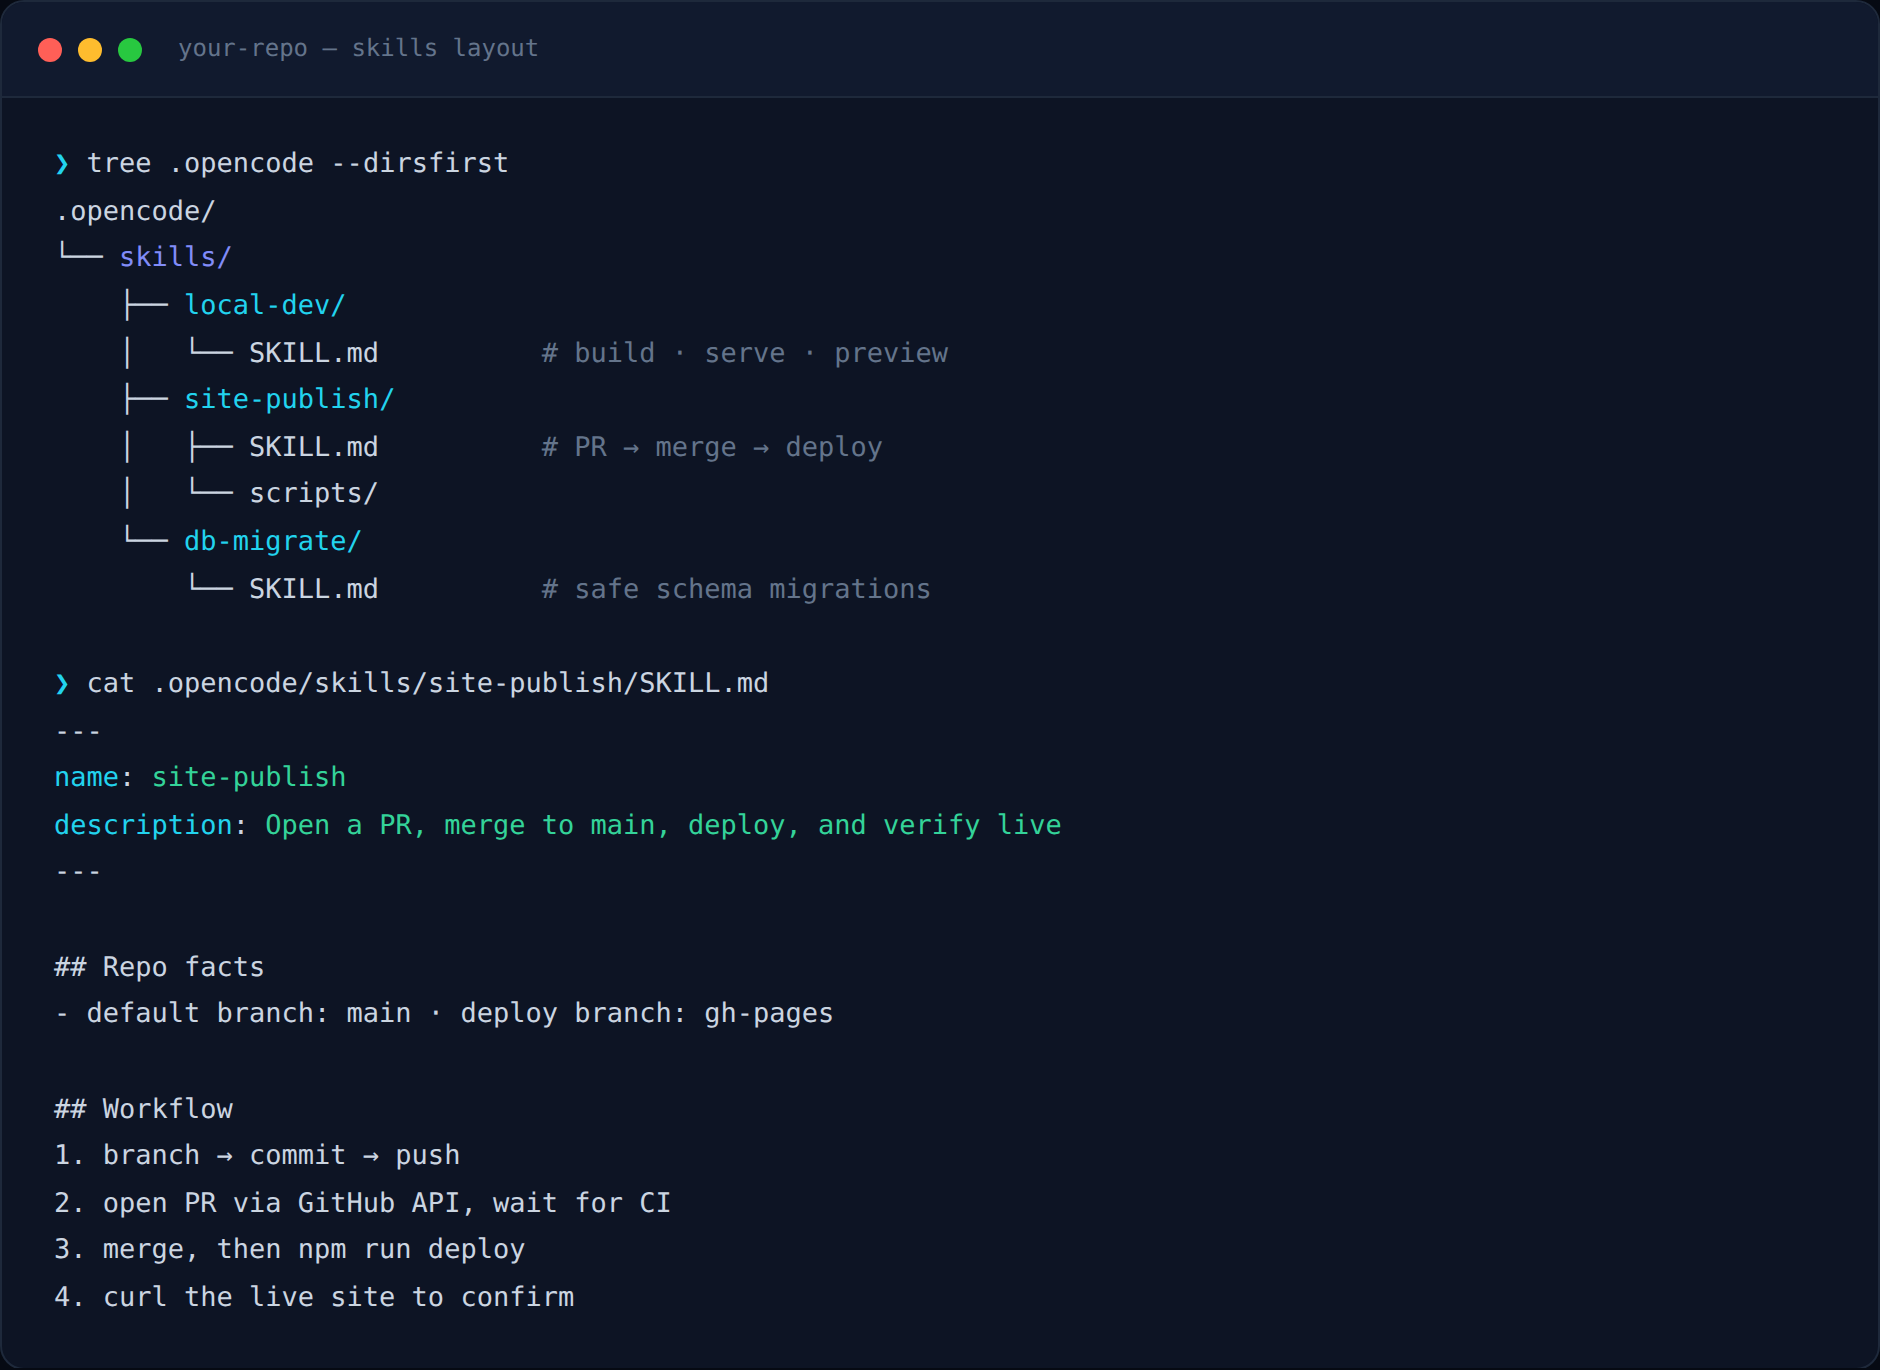
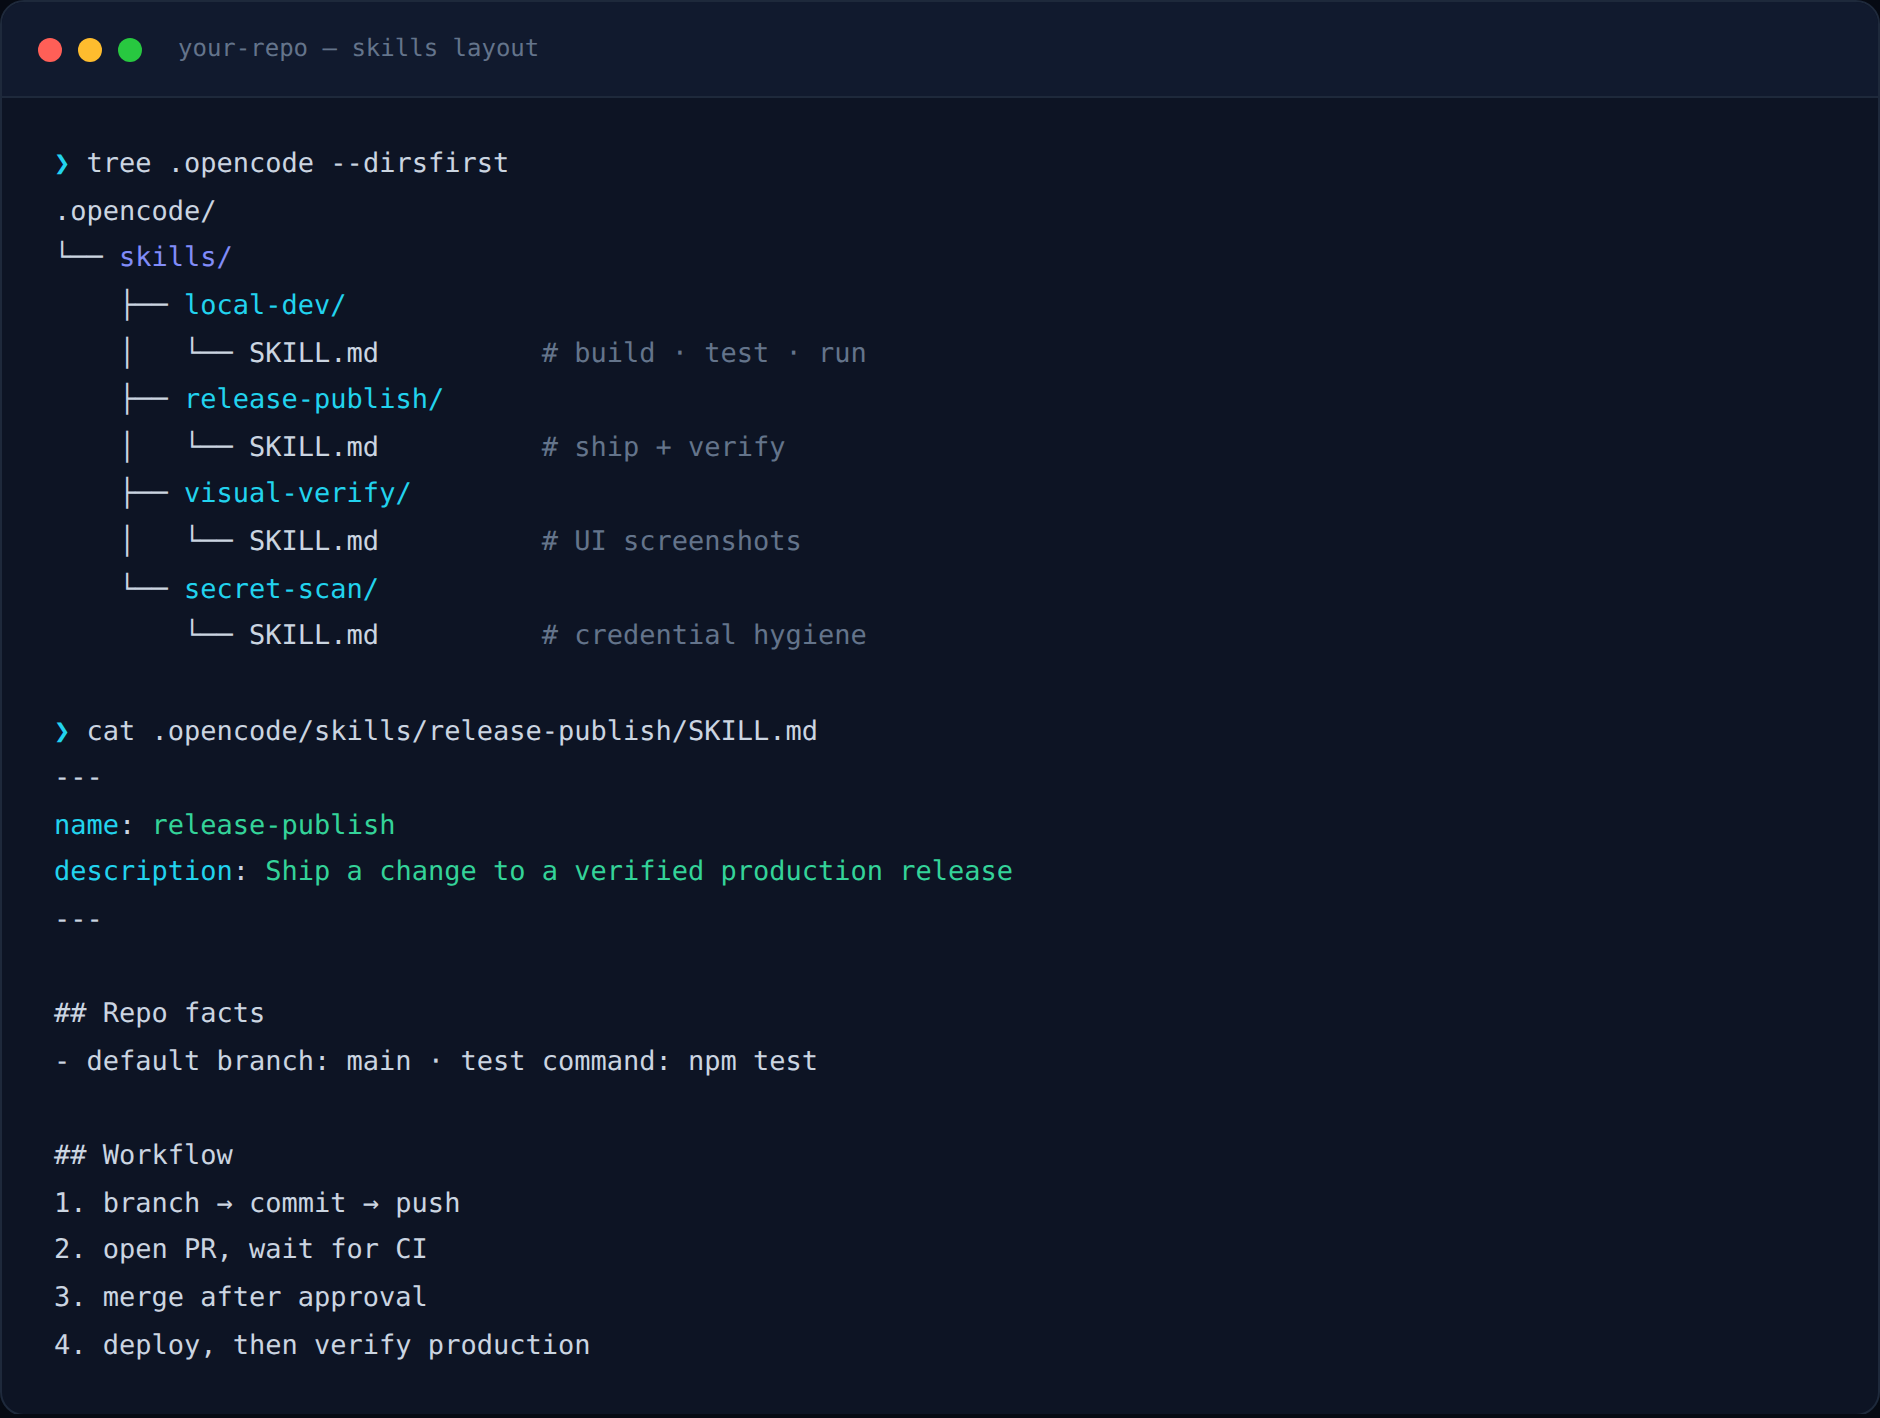
refactor: decouple OpenCode content from this project
- project card now links the standalone starter pack
  github.com/vinaykagithapu/opencode-skills (MIT, general-purpose)
- blog post: neutral examples only (release-publish snippet, no gh-pages,
  no real PR numbers), links the starter pack in Getting started
- visuals regenerated to match the actual pack skills (local-dev,
  release-publish, visual-verify, secret-scan)
- zero references to this site remain in the OpenCode content

diff --git a/src/pages/projects.js b/src/pages/projects.js
@@ -8,15 +8,15 @@ const ProjectList = [
   {
     title: 'OpenCode Agent Skills',
     description:
-      'Reusable, project-scoped skills that turn an AI coding agent into a reliable collaborator — local dev, publishing, and automation workflows stored as plain markdown, versioned with the repo they serve.',
+      'An MIT-licensed starter pack of general-purpose agent skills for OpenCode — local dev, verified releases, visual UI checks, and secret hygiene. Copy any skill into a repo and the agent picks it up.',
     tech: ['OpenCode', 'AI Agents', 'Automation', 'Playwright', 'Git'],
     features: [
-      'Skill system for repo-specific agent context — docs the agent actually reads',
-      'Closed shipping loop: branch → build → verify → PR → merge → deploy → live-check',
-      'Playwright screenshots + production curl greps as verification gates',
-      'Security-first: gitignored secrets, placeholder-only .env.example',
+      'Four copy-paste skills: local-dev, release-publish, visual-verify, secret-scan',
+      'Built on the Agent Skills spec — name + description frontmatter, auto-discovered',
+      'Verification-first: every workflow ends with proof, not promises',
+      'Intentionally generic — add your project’s real commands and ship',
     ],
-    repo: 'https://github.com/vinaykagithapu/vinaykagithapu.github.io',
+    repo: 'https://github.com/vinaykagithapu/opencode-skills',
   },
   {
     title: 'Sentiment Analysis Web App',
